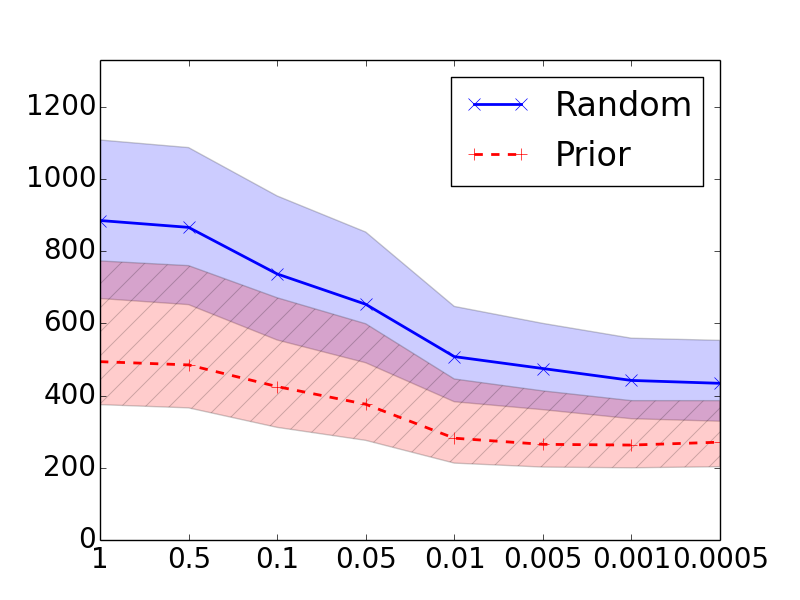
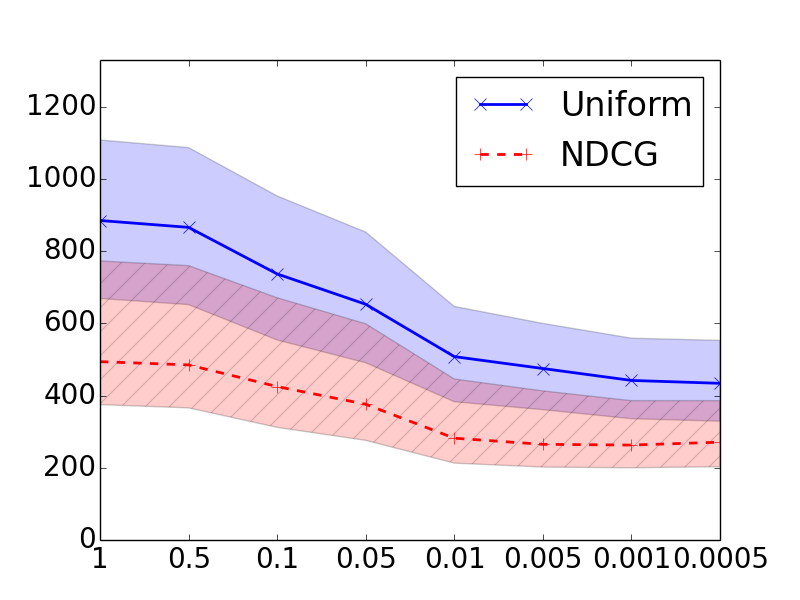
modified:   analysis_0115/anaParam.py 	modified:   analysis_0115/plots/param_effect/moves_10.png 	modified:   analysis_0115/plots/param_effect/moves_20.png 	modified:   analysis_0115/plots/param_effect/moves_50.png 	modified:   analysis_0115/plots/param_effect/task_length-1.png 	modified:   analysis

Changed region(s): [[0.6875, 0.15, 0.8438, 0.3], [0.5625, 0.12, 0.6562, 0.33]]

diff --git a/scripts/analysis_0115/anaParam.py b/scripts/analysis_0115/anaParam.py
@@ -26,13 +26,11 @@ outputdir = conf_g.output_dir
 rc('font', **{'size': 20})
 
 def data_gain(data, params):
-"""
 # preprare data for gain based plots
 # gain experiment parameters:
 #['index', 'page_size', 'gain_type', 'ndcg_k',
 # 'e_model','task_length', 'f_model', 'f_prior',
 # 'e_lambda', 'moves', ]
-"""
 	# Main group: by moves
 	# The index of the parameter for the main groups
 	idx = 9
@@ -48,7 +46,7 @@ def data_gain(data, params):
 		g = sorted(list(g), key=operator.itemgetter(idx_f))
 		legend_group = {}	
 		for key, group in itertools.groupby(g, lambda x: x[idx_f]):
-			legend_name = 'Prior' if key == 'NDCG' else 'Random'
+			legend_name = 'NDCG' if key == 'NDCG' else 'Uniform'
 			group = sorted(list(group), key=operator.itemgetter(idx_e), reverse=True)
 			data_group = []
 			e_group = []
@@ -75,13 +73,11 @@ def data_gain(data, params):
 	return main_group
 
 def data_effort(data, params):
-"""
 # preprare data for effort based plots
 # effort experiment parameters:
 #['index', 'page_size', 'gain_type', 'ndcg_k',
 # 'e_model','task_length', 'f_model', 'f_prior',
 # 'e_lambda',]
-"""
 	# Main group: by moves
 	# The index of the parameter for the main groups
 	idx = 5
@@ -97,7 +93,7 @@ def data_effort(data, params):
 		g = sorted(list(g), key=operator.itemgetter(idx_f), reverse=True)
 		legend_group = {}	
 		for key, group in itertools.groupby(g, lambda x: x[idx_f]):
-			legend_name = 'Prior' if key == 'NDCG' else 'Random'
+			legend_name = 'NDCG' if key == 'NDCG' else 'Uniform'
 			group = sorted(list(group), key=operator.itemgetter(idx_e), reverse=True)
 			data_group = []
 			e_group = []

diff --git a/scripts/user_model/Parameters.py b/scripts/user_model/Parameters.py
@@ -9,9 +9,10 @@ e_model_type = ['ExpRank']
 # WE use the following e_lambdas for RQ1 (influence of user patience and accuracy)
 # figure 4: Influence of user patience and their accuracy in choosing result lists.
 #e_lambda = [1, 0.5, 0.1, 0.05, 0.01, 0.005, 0.001, 0.0005]
+e_lambda = [1, 0.5, 0.1, 0.05, 0.01, 0.005, 0.001]
 
 # We use 0.01 for RQ2 (comparing systems), figure 5: When does RLR interface help?
-e_lambda = [0.01]
+#e_lambda = [0.01]
 
 # ===== Parameters for FilterModel ======
 uniform = lambda x: [1 for i in range(len(x))]
@@ -19,12 +20,14 @@ ndcg = lambda x: x
 user = lambda x: x
 # Option user is used when user data is used to compute the parameters.
 #f_prior = [None, ndcg, user]
-#f_prior = [None, ndcg]
+f_prior = [None, ndcg]
 #f_prior = [user]
 
 # Parameter for smooth experiments
-f_prior = [ndcg]
-smooth = [0, 0.1, 0.5, 1, 5, 10]
+#f_prior = [ndcg]
+#smooth = [0, 0.05, 0.1, 0.2, 0.5, 1, 2]
+# the parameters selected for different levels of accuracy
+smooth = [0, 0.1, 0.5, 1]
 
 # We decided to leave out option dynamic for all experiments.
 #f_model_type = ['static', 'dynamic']
@@ -45,10 +48,10 @@ page_size = [10]
 
 # ===== Task parameters =====
 # Number of relevant documents to be found: -1: all
-# task_length = [1, 10, -1] 
+task_length = [1, 10, -1] 
 
 # For gain based experiment, this parameter does not make a difference.
-task_length = [-1]
+#task_length = [-1]
 
 # Our user experiment was using task_length=10
 #task_length = [10]

diff --git a/scripts/simulate_smooth.py b/scripts/simulate_smooth.py
@@ -41,7 +41,11 @@ def generate_parameters():
             ]
         p = itertools.product(P.page_size, P.gain_model_type, P.ndcg_k, P.e_model_type, P.task_length, P.f_model_type, P.f_prior, P.e_lambda, P.smooth)
         p = list(p)
+        p = list(itertools.ifilter(lambda x: not(x[6]==None and x[8]>0), p))
     pa = [[i, list(p[i])] for i in range(len(p))]
+    for p in pa:
+        print p
+    print
     return pa, params
  
 def load_categories(catefile):
